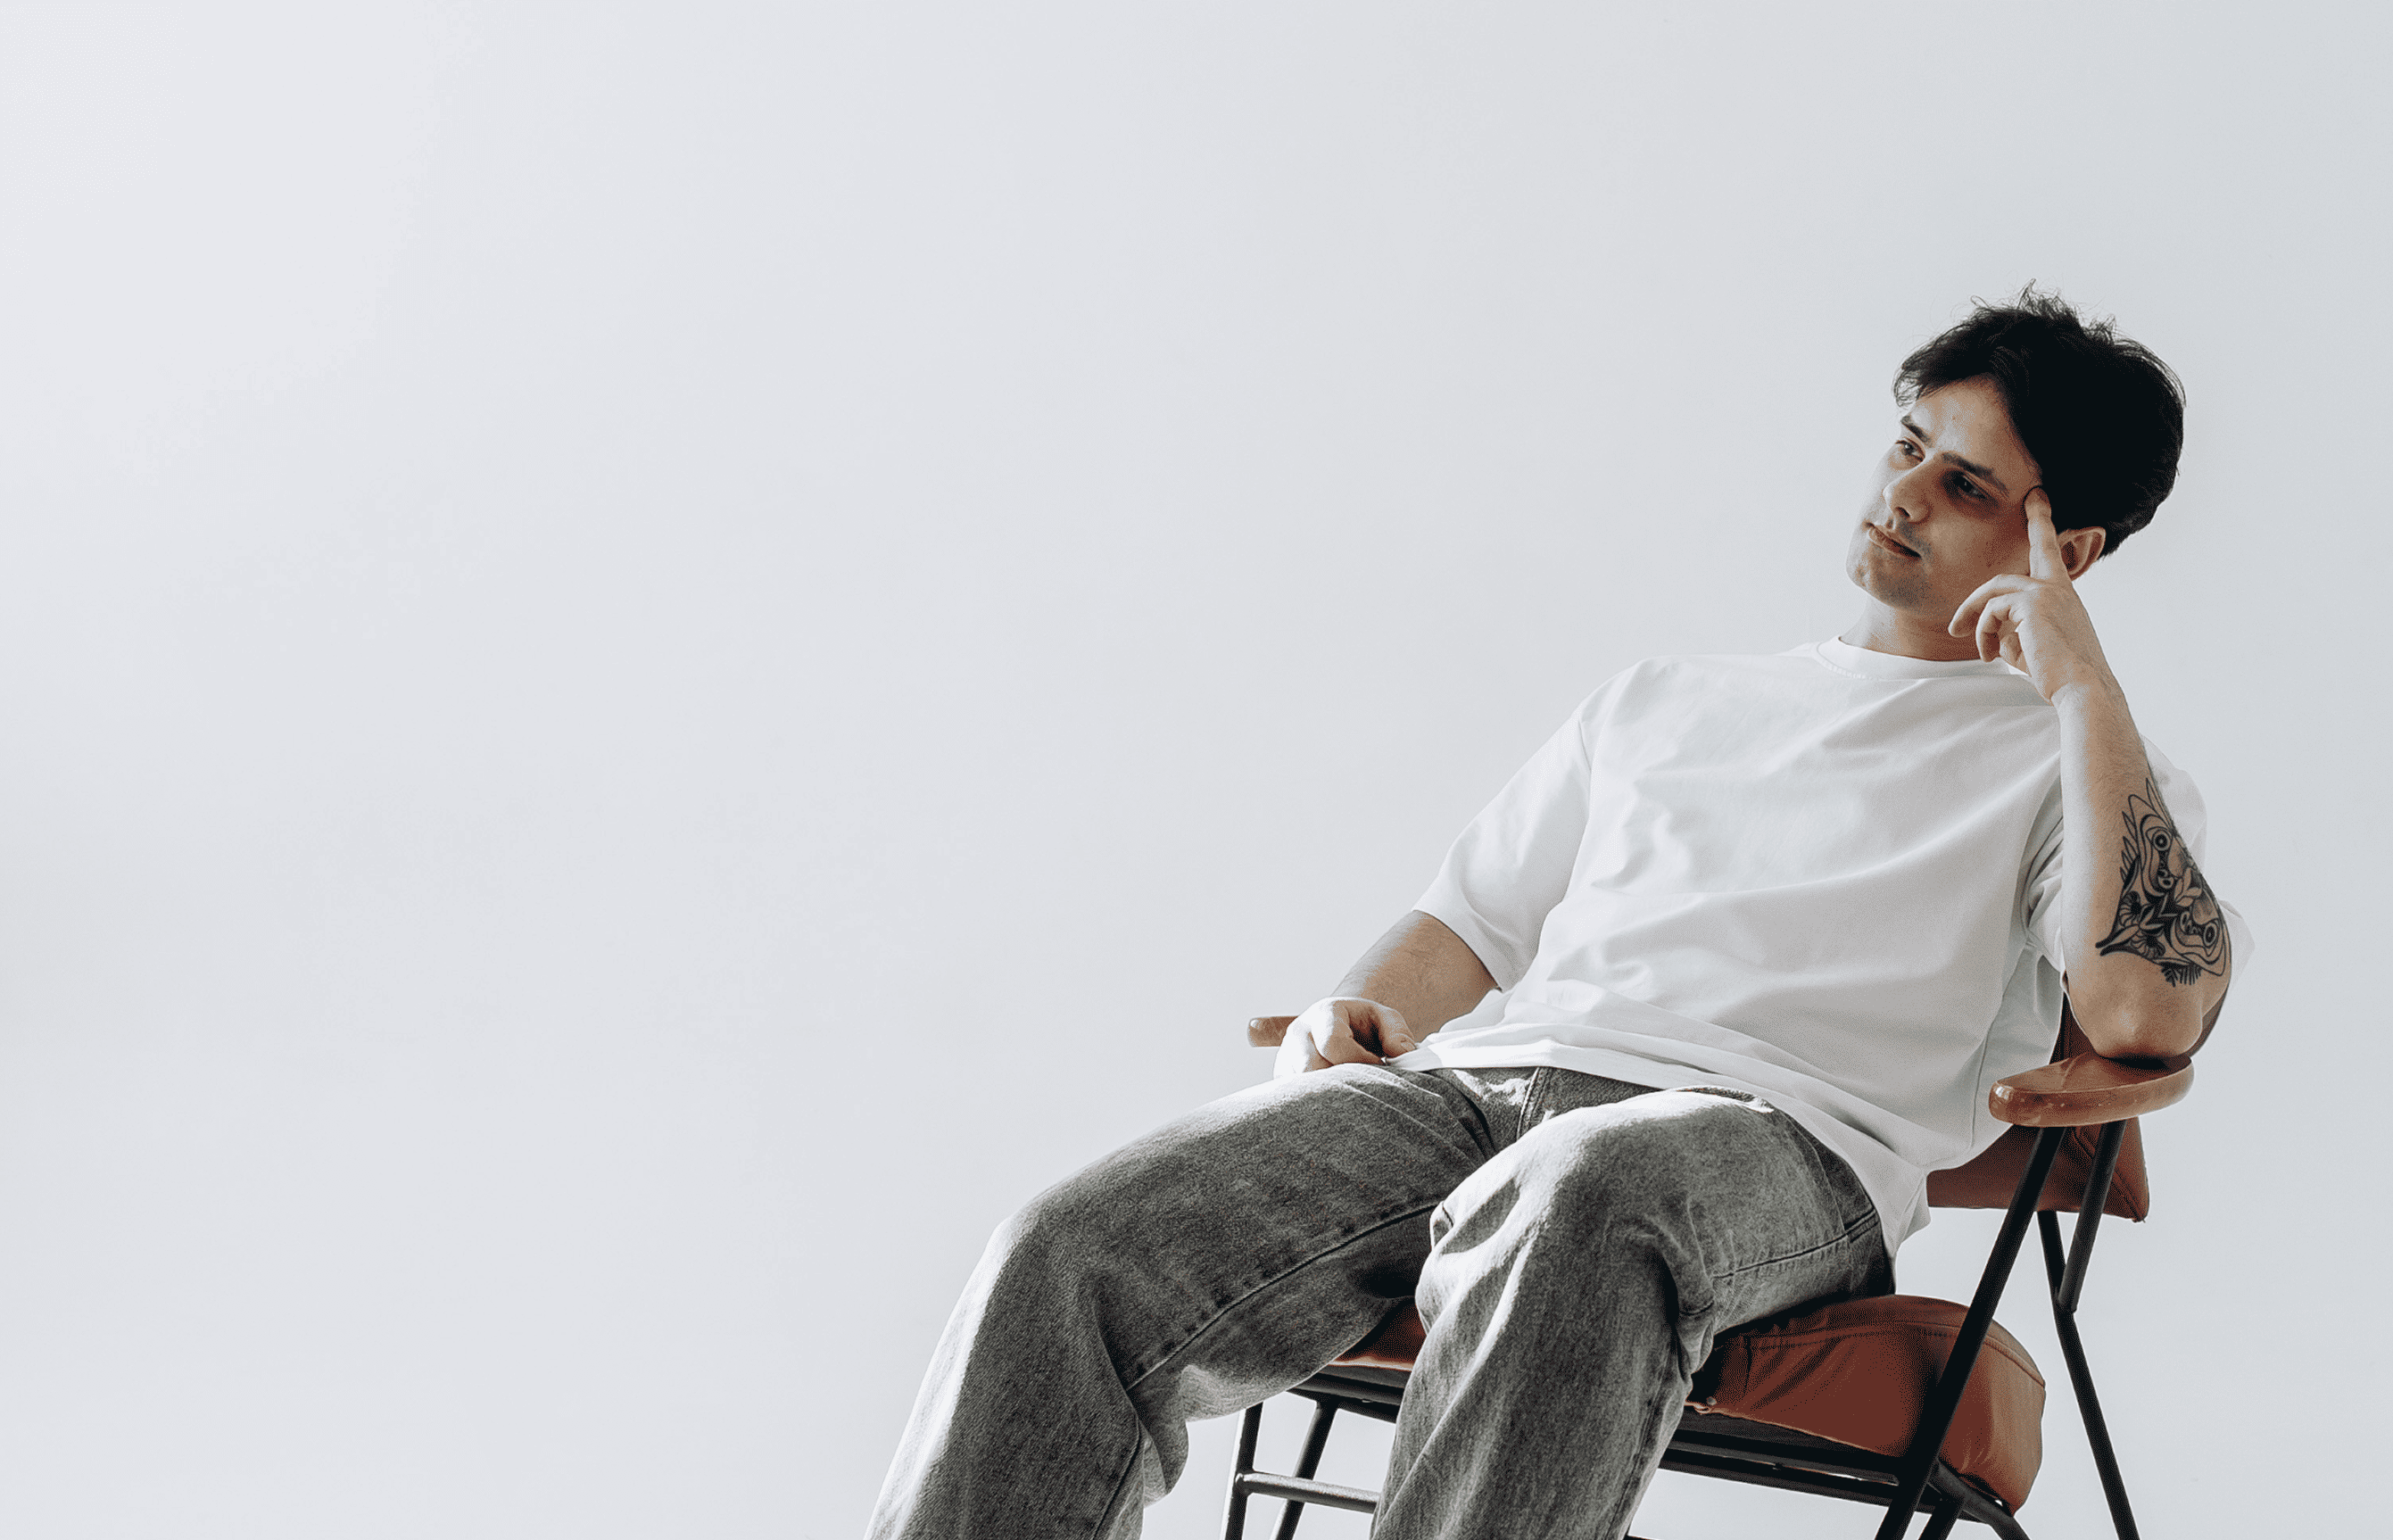
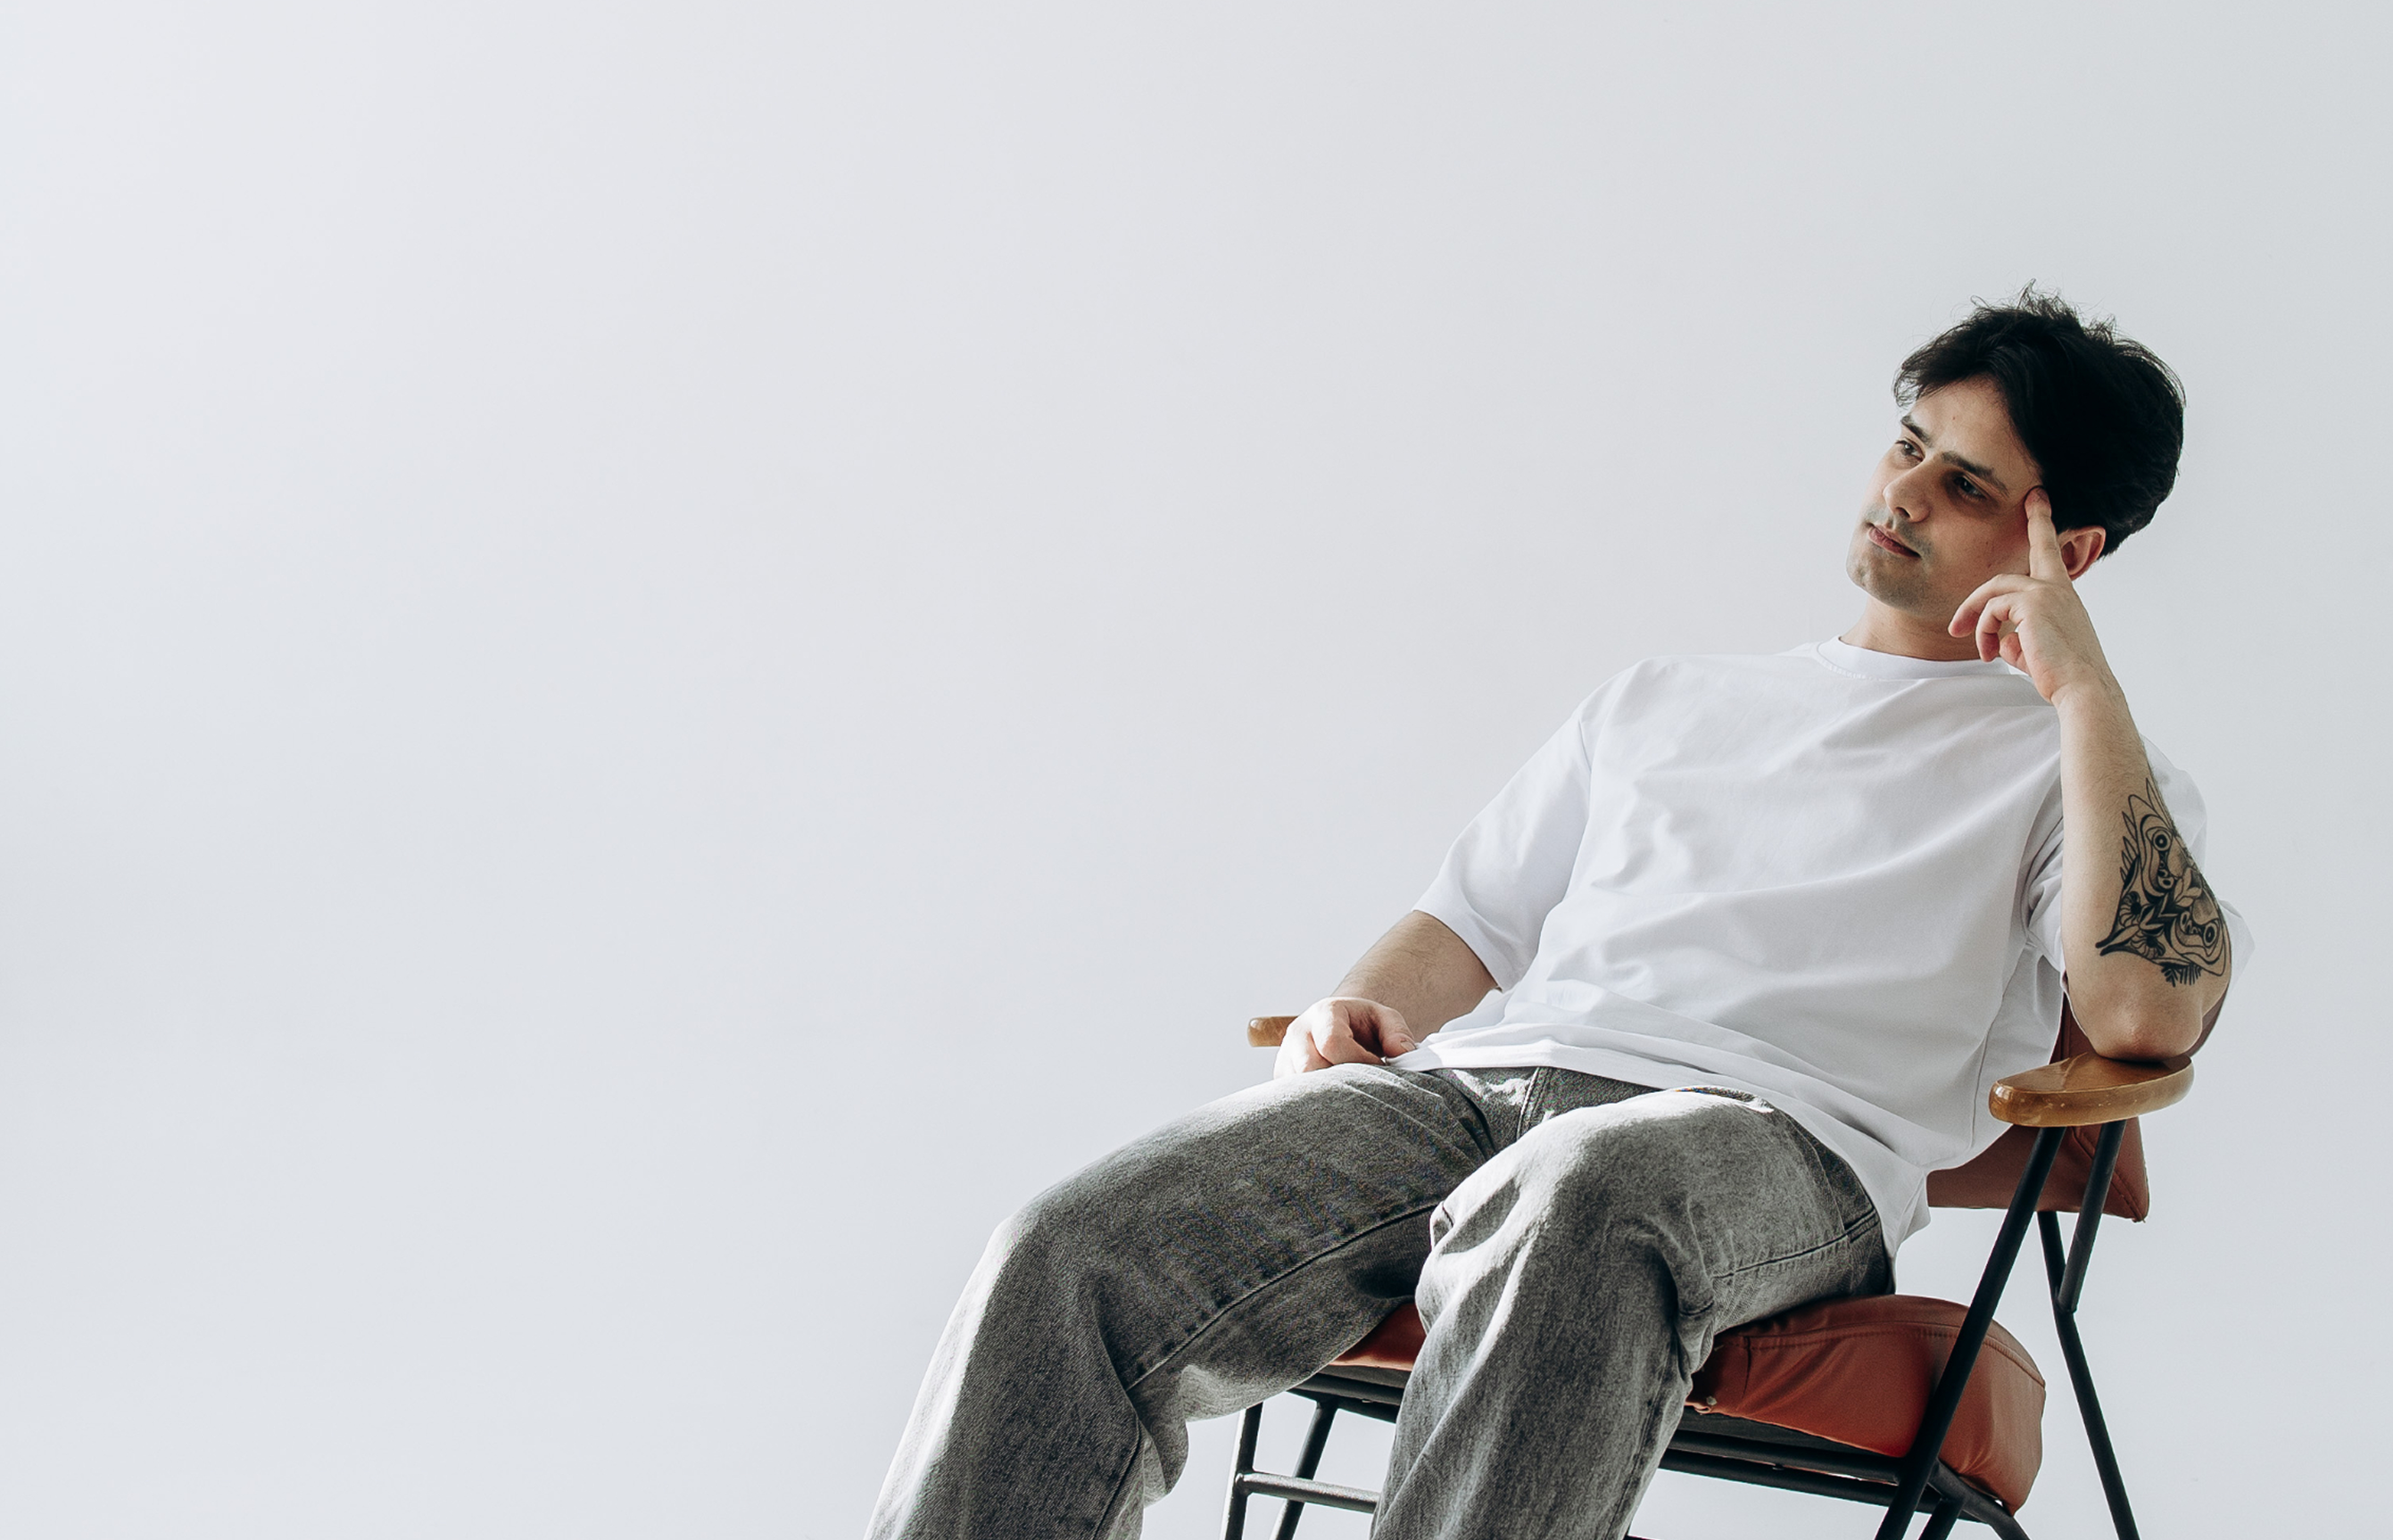
first commit

diff --git a/css/style.css b/css/style.css
@@ -2,13 +2,7 @@
    Ксения + Степан — structured styles + calm animations
    ========================================================= */
 
-@font-face {
-  font-family: "Qogol";
-  src: url("../fonts/gogol_regular.otf") format("opentype");
-  font-weight: 400;
-  font-style: normal;
-  font-display: swap;
-}
+
 
 :root {
   --color-text: #000;
@@ -232,10 +226,7 @@ p {
   min-height: 800px;
   overflow: hidden;
   isolation: isolate;
-  background:
-    radial-gradient(circle at 82% 15%, rgba(213, 232, 244, 0.42), transparent 24%),
-    radial-gradient(circle at 14% 84%, rgba(223, 204, 171, 0.24), transparent 26%),
-    #fff;
+  
 }
 
 .hero::before {
@@ -1030,7 +1021,7 @@ p {
 .js-enabled .wishes::before,
 .js-enabled .end::before {
   opacity: 0.82;
-  filter: blur(2px) saturate(0.97);
+  /* filter: blur(2px) saturate(0.97); */
   transform: scale(1.025);
   transform-origin: center;
   transition:
@@ -1043,7 +1034,7 @@ p {
 .js-enabled .wishes.is-section-visible::before,
 .js-enabled .end.is-section-visible::before {
   opacity: 1;
-  filter: blur(0) saturate(1);
+  /* filter: blur(0) saturate(1); */
   transform: scale(1);
 }
 
@@ -1053,11 +1044,11 @@ p {
 
 @keyframes heroPhotoIn {
   0% {
-    filter: blur(2px) saturate(0.96);
+    /* filter: blur(2px) saturate(0.96); */
     transform: translate3d(0, 18px, 0) scale(1.065);
   }
   100% {
-    filter: blur(0) saturate(1);
+    /* filter: blur(0) saturate(1); */
     transform: translate3d(calc(var(--hero-x, 0) * 1px), calc(var(--hero-y, 0) * 1px), 0) scale(1.035);
   }
 }

diff --git a/index.html b/index.html
@@ -5,8 +5,17 @@
   <meta name="viewport" content="width=device-width, initial-scale=1.0">
   <title>Ксения + Степан</title>
 
+  <style>
+    @font-face {
+  font-family: "Qogol";
+  src: url("../fonts/gogol_regular.otf") format("opentype");
+  font-weight: 400;
+  font-style: normal;
+  font-display: swap;
+}
+  </style>
   <link rel="stylesheet" href="css/style.css">
-
+  
   <link rel="preconnect" href="https://fonts.googleapis.com">
   <link rel="preconnect" href="https://fonts.gstatic.com" crossorigin>
   <link href="https://fonts.googleapis.com/css2?family=Cormorant:ital,wght@0,300..700;1,300..700&display=swap" rel="stylesheet">